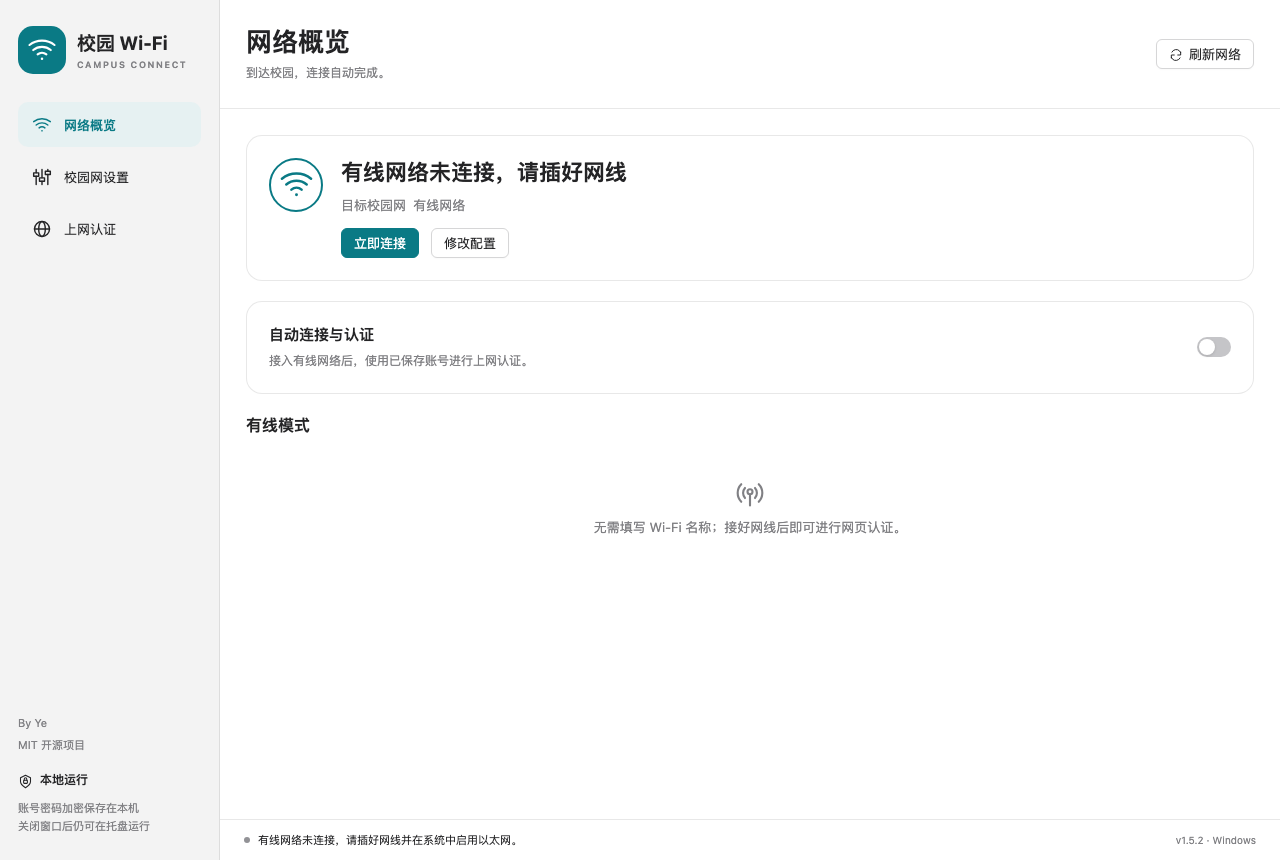
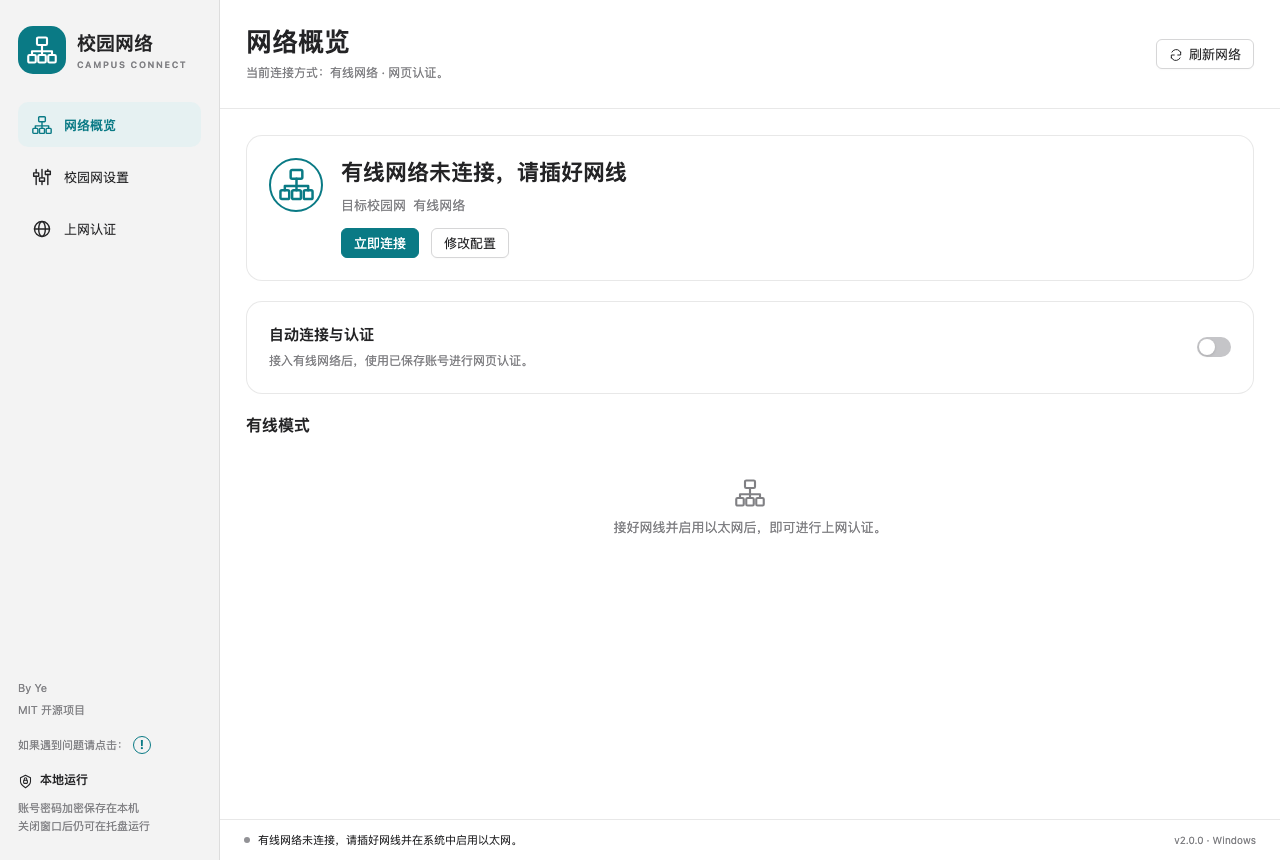
Promote CampusConnect 2.0.0 and add Wuxi school support notice

diff --git a/macOS/source/Tests.swift b/macOS/source/Tests.swift
@@ -118,6 +118,7 @@ import JavaScriptCore
         expect(WiredSystem.select(name: "missing", from: [other, noIP]) == nil, "missing selected adapter never falls back")
         expect(WiredSystem.select(name: "", from: [noIP, other]) == noIP, "automatic adapter selection does not require IP")
         expect(WiredSystem.select(name: "", from: []) == nil, "no Ethernet never falls back to Wi-Fi")
+        invalidWired.ethernetName = "campus-missing-interface-test"
         expect(!WiredSystem.connected(invalidWired), "missing configured system connection cannot be authenticated")
         expect(PortalFillRetry.shouldRetry(result: "waiting-agreement", scriptFailed: false, attempt: 1), "asynchronous checkbox retries")
         expect(!PortalFillRetry.shouldRetry(result: "agreement-required", scriptFailed: false, attempt: 1), "rejected checkbox requires manual action")

diff --git a/Windows/source/Desktop.html b/Windows/source/Desktop.html
@@ -164,7 +164,7 @@ select {font:inherit;border:1px solid var(--border,#ddd);border-radius:8px;paddi
       <div class="portal-slot" id="portal-slot"><div class="hint"><i data-icon="globe"></i><p>学校认证页面将在这里打开<br><span id="portal-connection-hint">请先连接已设置的校园 Wi-Fi</span></p></div></div>
     </section>
   </div>
-  <footer class="footer"><span class="dot" id="status-dot"></span><span class="status" id="status">准备就绪</span><span class="version">v2.0.0-beta.2 · Windows</span></footer>
+  <footer class="footer"><span class="dot" id="status-dot"></span><span class="status" id="status">准备就绪</span><span class="version">v2.0.0 · Windows</span></footer>
 </main>
 </div>
 <script>

diff --git a/macOS/source/App.swift b/macOS/source/App.swift
@@ -498,7 +498,7 @@ struct RootView: View {
                         Text(model.status).font(.system(size: 11)).lineLimit(2)
                     }
                     Spacer()
-                    Text("v2.0.0-beta.2 · macOS").font(.system(size: 10)).foregroundStyle(.secondary)
+                    Text("v2.0.0 · macOS").font(.system(size: 10)).foregroundStyle(.secondary)
                 }.padding(.horizontal, 24).padding(.vertical, 12)
             }.background(Color(nsColor: .textBackgroundColor))
         }.frame(minWidth: 980, minHeight: 700).tint(accent).textSelection(.disabled)

diff --git a/scripts/package-source.py b/scripts/package-source.py
@@ -6,14 +6,14 @@ from zipfile import ZipFile, ZIP_DEFLATED
 root = Path(__file__).resolve().parents[1]
 output = root / "发布包" / "CampusConnect-GitHub-source.zip"
 output.parent.mkdir(exist_ok=True)
-files = [root / name for name in ("README.md", "VALIDATION.md", ".gitignore", "LICENSE", "THIRD_PARTY_NOTICES.md")]
+files = [root / name for name in ("README.md", "2.0-更新说明.md", "VALIDATION.md", ".gitignore", "LICENSE", "THIRD_PARTY_NOTICES.md")]
 for folder in ("macOS/source", "Windows/source", "Windows/tests", "Windows/installer", ".github/workflows", "scripts", "licenses"):
     for path in (root / folder).rglob("*"):
         relative = path.relative_to(root / folder)
         if path.is_file() and not set(relative.parts).intersection({"bin", "obj", "dist", "dependencies", "__pycache__", "work", "node_modules"}) and path.name != ".DS_Store":
             if path.suffix in {".swift", ".cs", ".csproj", ".js", ".mjs", ".cjs", ".html", ".sh", ".ps1", ".py", ".yml", ".plist", ".icns", ".ico", ".manifest", ".nsi", ".txt"}:
                 files.append(path)
-files += [root / path for path in ("macOS/README.md", "macOS/test.sh", "macOS/test-webkit.sh", "Windows/README.md", "Windows/1.5.1-更新说明.md", "Windows/2.0-测试版说明.md", "Windows/build.ps1", "Windows/build-installer.ps1")]
+files += [root / path for path in ("macOS/README.md", "macOS/test.sh", "macOS/test-webkit.sh", "Windows/README.md", "Windows/1.5.1-更新说明.md", "Windows/2.0-更新说明.md", "Windows/build.ps1", "Windows/build-installer.ps1")]
 files += sorted((root / "docs" / "screenshots").glob("*.png"))
 with ZipFile(output, "w", ZIP_DEFLATED) as archive:
     for path in sorted(set(files)):

diff --git a/Windows/installer/build.py b/Windows/installer/build.py
@@ -78,7 +78,7 @@ def main():
     switch = '/' if os.name == 'nt' else '-'
     command = [args.makensis, switch + 'INPUTCHARSET', 'UTF8', switch + 'V3', switch + 'WX']
     for key, value in {'PAYLOAD': payload, 'OUTPUT': output, 'DELETE_MANIFEST': manifest, 'INSTALL_MANIFEST': install_manifest,
-                       'BOOTSTRAPPER': bootstrapper, 'RUNTIME': args.runtime, 'VERSION': '2.0.0-beta.2', 'SIZE_KB': (size + 1023) // 1024}.items():
+                       'BOOTSTRAPPER': bootstrapper, 'RUNTIME': args.runtime, 'VERSION': '2.0.0', 'SIZE_KB': (size + 1023) // 1024}.items():
         command.append(switch + 'D' + key + '=' + str(value))
     command.append(str(directory / 'CampusConnect.nsi'))
     environment = os.environ.copy()

diff --git a/2.0-更新说明.md b/2.0-更新说明.md
@@ -1,0 +1,41 @@
+# CampusConnect 2.0 正式版
+
+版本：**2.0.0**，提供 Windows x64 安装包与 macOS Apple 芯片 / Intel 通用包。本版本由 2.0 测试版转为正式版。
+
+## 支持学校与问题反馈
+
+目前支持 **河南工业职业技术大学**、**郑州信息工程职业学院**、**无锡职业技术大学** 的校园网认证。其他学校也欢迎下载测试；使用正常时欢迎在 [GitHub Issues](https://github.com/Ye9137/CampusConnect/issues) 中反馈学校名称，帮助更多同学了解适用范围。
+
+如遇到连接或认证问题，请提供学校名称和连接失败的完整视频。可关注抖音 **3325725312q** 进入群聊反馈，或添加 QQ **3325725312**。
+
+## 主要功能
+
+- 明确选择 Wi-Fi 无线网络或有线网络；有线不需要填写 Wi-Fi 名称。旧版名称留空的配置继续识别为有线网页认证，修改后保存才会生效。
+- 有线可选网页认证、PPPoE 宽带拨号、802.1X 系统认证和学校专用客户端。指定以太网接口不存在时不会改用其他网卡或 Wi-Fi。
+- 自动勾选可识别的登录必选框和协议项，触发学校网页原有事件；保留异步确认、来源校验和提交去重。记住密码、推广订阅等可选项保留原状；验证码、拒绝勾选或其他人工确认仍需手动处理。
+- 左下角显示「如果遇到问题请点击：!」，点击感叹号展开抖音反馈说明，账号可复制。
+- 保留服务选项、登录结果校验、后台自动连接、持续重试与暂停。没有服务选项时留空，沿用学校网页默认状态。
+
+## 平台认证方式
+
+| 认证方式 | Windows | macOS |
+| --- | --- | --- |
+| 网页认证 | 使用学校原有认证页面 | 使用学校原有认证页面，有线网页请求绑定所选接口 |
+| PPPoE | 使用已创建并保存凭据的 Windows 宽带连接 | 使用 macOS 网络设置中已创建并保存凭据的 PPPoE 服务 |
+| 802.1X | 复用已配置的 EAP/证书和凭据，向所选以太网接口请求重新认证 | 复用系统描述文件、证书及系统自动连接；手动连接在 macOS 网络设置中完成 |
+| 学校客户端 | 选择已安装的 Windows EXE | 选择已安装的 macOS .app |
+
+PPPoE 的网卡由对应系统连接配置决定；学校客户端中的账号、验证码与私有认证由该客户端处理。系统命令返回或外网 ping 成功不能单独证明学校认证已完成。
+
+## 验证范围
+
+已完成核心逻辑、配置兼容、网页必选框、服务选项、提交去重及界面回归。macOS 原生 WKWebView 回归和通用构建、Windows x64 / ARM64 原生安装检查记录见 [GitHub Actions](https://github.com/Ye9137/CampusConnect/actions/workflows/build.yml) 与 [验证记录](VALIDATION.md)。
+
+真实校园 PPPoE、802.1X、专用客户端、学校实际协议框、网线拔插及多网卡/VPN 场景仍需现场验证。Windows 浏览器与两平台的外网 ping 使用系统路由。
+
+## 附件
+
+- `CampusConnect-Windows-x64-2.0.0-Setup.exe`：Windows x64 安装程序。
+- `CampusConnect-macOS-universal-2.0.0.zip`：macOS Apple 芯片 / Intel 通用应用。
+- `CampusConnect-source-2.0.0.zip`：对应源码。
+- `SHA256SUMS.txt`：以上附件的 SHA-256 校验值。

diff --git a/Windows/2.0-更新说明.md b/Windows/2.0-更新说明.md
@@ -1,11 +1,11 @@
-# CampusConnect 2.0 测试版（Windows Beta 2）
+# CampusConnect 2.0 正式版（Windows）
 
-版本：**2.0.0-beta.2**。本次仅更新 Windows，macOS 保持 1.5.2。本版本作为 GitHub **Pre-release** 发布，1.5.2 仍为稳定版。
+版本：**2.0.0**。Windows 与 macOS 同步提供正式版，完整发布内容见 [2.0 更新说明](../2.0-更新说明.md)。
 
 ## 更新内容
 
-- Beta 2 修复 Windows CI 中 ePortal 回归检查对 CRLF 换行符的兼容问题。
-- Beta 2 在 Windows 界面左下角加入「如果遇到问题请点击：!」入口，点击感叹号展开抖音反馈信息：使用中如有任何问题，请关注抖音 **3325725312q**，进群反馈。
+- 修复 Windows CI 中 ePortal 回归检查对 CRLF 换行符的兼容问题。
+- 在 Windows 界面左下角加入「如果遇到问题请点击：!」入口，点击感叹号展开抖音反馈信息：使用中如有任何问题，请关注抖音 **3325725312q**，进群反馈。
 
 - 明确增加「Wi-Fi 无线网络 / 有线网络（以太网）」选择，修正有线状态下仍显示 Wi-Fi 的图标、名称与提示。修改后保存即用于实际连接，旧版 Wi-Fi 名称留空的配置继续可用。
 - 有线模式可选网页认证、PPPoE 宽带拨号、802.1X 系统认证与学校专用客户端。
@@ -26,10 +26,10 @@
 
 Windows 核心 2115 项、网页必选框/协议框 36 项、连接方式选择与保存恢复、桌面交互、80 项后台恢复、18 项基础认证、ePortal、提前初始化及性能回归通过。Windows x64 自包含构建、NSIS 安装包生成、文件清单与发布校验完成。
 
-尚未完成本测试版的 Windows 原生安装/卸载、真实校园 PPPoE / 802.1X、学校客户端运行、学校实际协议框及网线拔插验证。不得将系统命令返回或百度 ping 成功当作对应学校认证已完成的证明。Windows 浏览器和 ping 使用系统路由，多网卡 / VPN 环境需确认学校地址可达。
+Windows x64 / ARM64 云端安装、启动、快捷方式、修复、升级和卸载已通过 Beta 2 原生检查，正式版结果以对应 GitHub Actions 为准。尚未完成真实校园 PPPoE / 802.1X、学校客户端运行、学校实际协议框及网线拔插验证。不得将系统命令返回或百度 ping 成功当作对应学校认证已完成的证明。Windows 浏览器和 ping 使用系统路由，多网卡 / VPN 环境需确认学校地址可达。
 
 ## 附件
 
-- `CampusConnect-Windows-x64-2.0.0-beta.2-Setup.exe`：Windows x64 安装包。
-- `CampusConnect-source-2.0.0-beta.2.zip`：对应源码，包含未改动的 macOS 1.5.2 源码。
+- `CampusConnect-Windows-x64-2.0.0-Setup.exe`：Windows x64 安装包。
+- `CampusConnect-source-2.0.0.zip`：Windows / macOS 2.0.0 对应源码。
 - `SHA256SUMS.txt`：安装包与源码包的 SHA-256 校验值。

diff --git a/macOS/README.md b/macOS/README.md
@@ -1,6 +1,6 @@
 # macOS 版
 
-## 2.0 测试版（2.0.0-beta.2，本地测试）
+## 2.0 正式版（2.0.0）
 
 - 在「校园网设置」明确选择 Wi-Fi 或有线网络；有线无需填写 Wi-Fi 名称。旧版空名称配置继续按有线网页认证处理，修改后保存才会生效。
 - 有线支持网页认证、PPPoE 宽带拨号、802.1X 系统认证及学校专用客户端。可指定以太网接口；指定接口不存在时不会改用其他网卡或 Wi-Fi。
@@ -11,7 +11,7 @@
 - 网页自动勾选可识别的登录必选框和协议项，保留网页事件、异步确认、来源校验及防重复提交。记住密码和推广订阅等可选项保留原状；拒绝勾选、验证码和额外字段交给用户处理。
 - 左下角「如果遇到问题请点击：!」展开抖音 **3325725312q** 和进群反馈说明，账号可复制。
 
-这是本地测试构建，尚未发布新的 GitHub macOS 安装包。真实校园 PPPoE、802.1X、学校客户端及网线拔插仍需现场验证。
+[下载 2.0.0 正式版](https://github.com/Ye9137/CampusConnect/releases/tag/v2.0.0) · [更新说明](../2.0-更新说明.md)。真实校园 PPPoE、802.1X、学校客户端及网线拔插仍需现场验证。
 
 ## 1.5.2 有线模式
 
@@ -61,7 +61,7 @@
 
 ## 安装与使用
 
-1. 下载并解压 `CampusConnect-macOS-universal-1.5.2.zip`。
+1. 下载并解压 `CampusConnect-macOS-universal-2.0.0.zip`。
 2. 将 `CampusConnect.app` 拖到「应用程序」，双击打开。
 3. 此包使用本地临时签名，未经过 Apple Developer ID 签名和公证。若系统拦截，请确认下载来源后，在「系统设置 → 隐私与安全性」中允许打开。
 4. 在应用「网络概览」点击授权定位，允许读取 Wi-Fi 名称。

diff --git a/VALIDATION.md b/VALIDATION.md
@@ -1,5 +1,14 @@
 # 构建与验证记录
 
+## 2026-10-17 CampusConnect 2.0.0 正式版
+
+- 按用户要求将 2.0 测试版转为 Windows / macOS 正式版，统一应用、安装器、下载文件与文档的版本标识。macOS 固定版本 2.0.0、构建号 2003，Windows 固定文件版本 2.0.0.0。
+- 支持名单加入用户反馈的「无锡职业技术大学」，保留原有两所学校、其他学校测试反馈方式与作者个人说明。
+- 首页切换到 v2.0.0 下载地址，更新 Windows 正式版空凭据离线截图；GitHub 正式版附件核对后移除 1.5.2 Release 和标签。
+- 主要功能沿用已有 2.0 测试构建。修正 macOS 核心测试对当前机器是否存在有线网卡的依赖，指定不存在的测试接口来验证不回退。
+- 原有核心、原生 WebKit、Windows 安装与界面检查范围见下方记录；本次完整云端构建与原生安装检查以对应正式版提交的 GitHub Actions 结果为准。
+- 正式版名称不等于所有学校和协议都已现场验证；真实校园 PPPoE、802.1X、专用客户端、协议框及网线拔插、多网卡/VPN 场景仍需现场测试。
+
 ## 2026-10-17 macOS 2.0.0-beta.2 本地测试版
 
 - 同步 Windows 2.0 测试版的显式 Wi-Fi / 有线选择、四种有线认证入口、登录必选框与协议框自动勾选，以及左下角感叹号抖音反馈说明。应用、菜单栏和网络提示不再将有线模式称为 Wi-Fi。

diff --git a/Windows/README.md b/Windows/README.md
@@ -1,12 +1,12 @@
 # Windows 版
 
-## 2.0 测试版（2.0.0-beta.2）：连接方式、自动勾选与反馈入口
+## 2.0 正式版（2.0.0）：连接方式、自动勾选与反馈入口
 
 Windows 界面左下角新增「如果遇到问题请点击：!」入口。点击感叹号展开反馈说明：使用中如有任何问题，请关注抖音 **3325725312q**，进群反馈。
 
-本次仅更新 Windows，macOS 保持 1.5.2。此版本以 GitHub Pre-release 发布，供测试验证。
+Windows 与 macOS 同步提供 2.0.0 正式版，平台认证方式的差异见更新说明。
 
-[下载 Windows 2.0 测试版](https://github.com/Ye9137/CampusConnect/releases/tag/windows-v2.0.0-beta.2) · [测试说明](2.0-测试版说明.md)
+[下载 Windows 2.0 正式版](https://github.com/Ye9137/CampusConnect/releases/tag/v2.0.0) · [更新说明](2.0-更新说明.md)
 
 在「校园网设置」明确选择 **Wi-Fi 无线网络** 或 **有线网络（以太网）**。旧配置的 Wi-Fi 名称留空仍映射为有线模式。修改后需保存才会用于实际连接；窗口标题、网络概览图标和认证页提示使用当前已保存的方式。侧栏统一显示「校园网络」。
 
